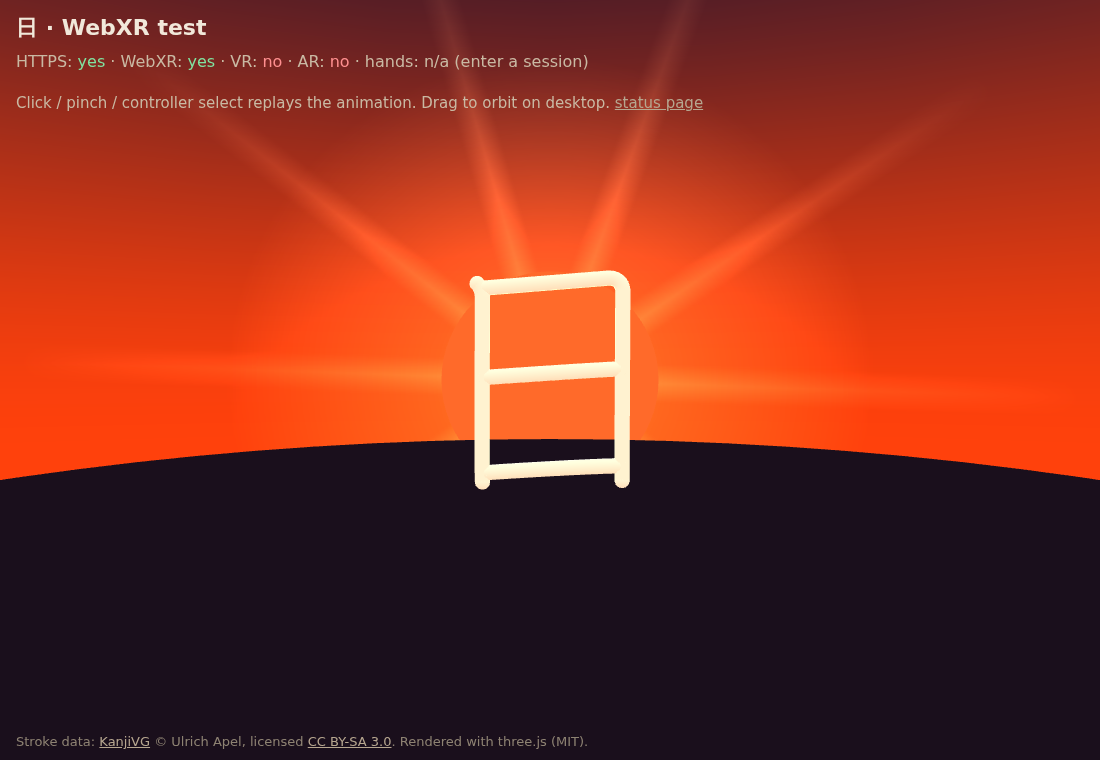
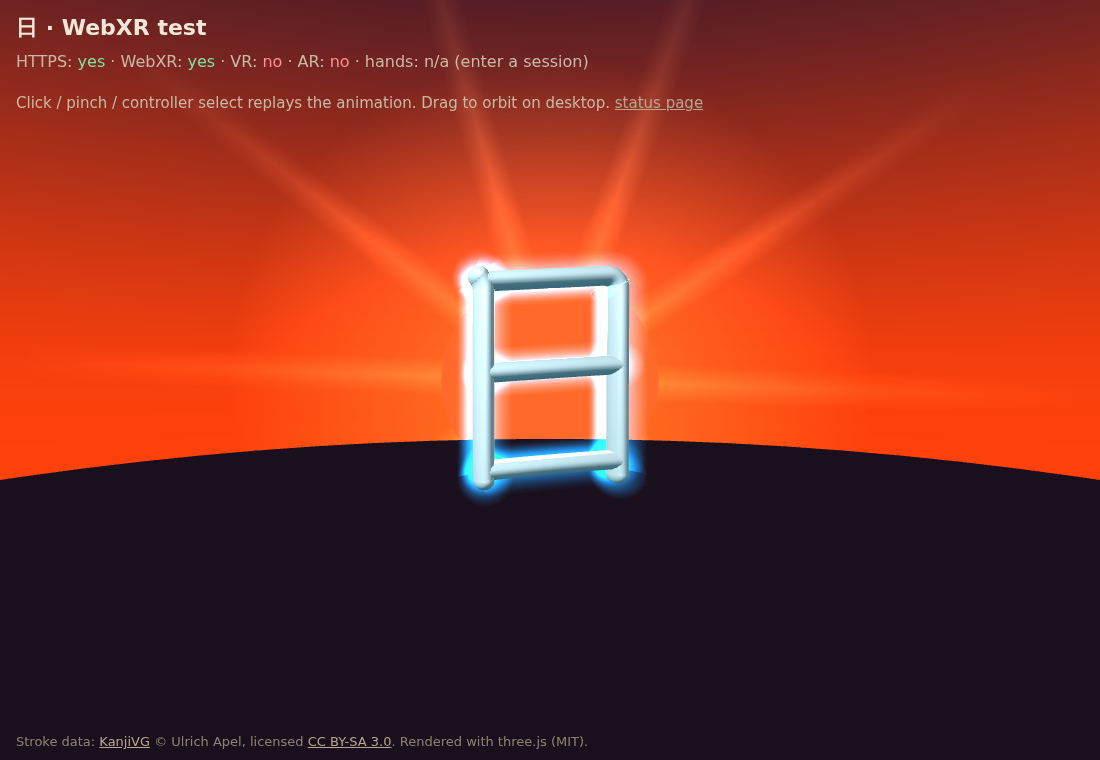
Make the glyph truly 3D with a soft halo, parallax and colour presets
- Deep elliptical-section strokes with correct normals, key and rim lights
- Back-face additive halo that fades at its edge, brightens with the sunrise
- Sun and hill moved well behind the glyph for stereo parallax
- Slow sway after drawing so depth reads when held still
- ?color=cyan|gold|jade|rose palettes; README updated

Claude-Session: https://claude.ai/code/session_01AaNQvAE4ZjNRzfYPZ61ATu

Changed region(s): [[0.4018, 0.3329, 0.5873, 0.6658]]

diff --git a/src/main.js b/src/main.js
@@ -3,7 +3,10 @@ import { OrbitControls } from '../vendor/three/OrbitControls.js';
 
 // ---------- tunables ----------
 const GLYPH_HEIGHT = 0.30;     // metres, glyph bounding-box height
-const STROKE_WIDTH_UNITS = 5;  // KanjiVG units (the source glyph uses 3, this is bolder for VR)
+const STROKE_WIDTH_UNITS = 6.5; // KanjiVG units (the source glyph uses 3, this is bolder for VR)
+const DEPTH_RATIO = 2.0;       // glyph depth radius / width radius: >1 makes the strokes deep slabs, not flat ribbons
+const SWAY = 0.30;             // radians of slow yaw sway once drawn, so the depth reads even without head movement
+const GLOW_SHELL = 2.6;        // halo shell radius relative to the stroke radius
 const DIST = 1.2;              // metres in front of the viewer
 const DESKTOP_POS = new THREE.Vector3(0, 1.4, -DIST);
 
@@ -12,9 +15,19 @@ const STROKE_START = 2.0;
 const STROKE_DUR = 0.75;
 const IDLE_START = STROKE_START + 4 * STROKE_DUR; // 5.0 s
 
-const SUN_R = 0.2, SUN_Z = -0.3, SUN_Y_HIDDEN = -0.42, SUN_Y_UP = 0.0;
-const HILL_Z = -0.18;
+// sun and hill sit well behind the glyph (stereo parallax), scaled so they look the same size as before
+const SUN_R = 0.2, SUN_Z = -0.9, SUN_SCALE = 1.4, SUN_Y_HIDDEN = -0.59, SUN_Y_UP = 0.0;
+const HILL_Z = -0.6, HILL_SCALE = 1.3;
 
+// glyph colour presets, chosen to read against the orange sun / dark hill. Try ?color=gold|cyan|jade|rose
+const PALETTES = {
+  cyan: { body: 0xdaf7ff, emissive: 0x58d8ff, glow: 0x3fd0ff },
+  gold: { body: 0xffe9b8, emissive: 0xffc060, glow: 0xffb347 },
+  jade: { body: 0xdcffe8, emissive: 0x5cf0a0, glow: 0x38e890 },
+  rose: { body: 0xffe0ee, emissive: 0xff86bc, glow: 0xff6aae },
+};
+
+const params = new URLSearchParams(location.search);
 const clamp01 = (x) => Math.min(1, Math.max(0, x));
 const smooth = (x) => { x = clamp01(x); return x * x * (3 - 2 * x); };
 const lerp = (a, b, t) => a + (b - a) * t;
@@ -70,7 +83,7 @@ for (let i = 0; i <= 60; i++) { const x = -3 + (6 * i) / 60; hillShape.lineTo(x,
 hillShape.lineTo(3, -2.5);
 const hillMat = new THREE.MeshBasicMaterial({ color: 0x05060f });
 const hill = new THREE.Mesh(new THREE.ShapeGeometry(hillShape), hillMat);
-hill.position.z = HILL_Z;
+hill.position.z = HILL_Z; hill.scale.setScalar(HILL_SCALE);
 group.add(hill);
 
 // sun: disc + additive glow + rays
@@ -92,7 +105,7 @@ function rayTexture() {
   return new THREE.CanvasTexture(c);
 }
 const sun = new THREE.Group();
-sun.position.set(0, SUN_Y_HIDDEN, SUN_Z);
+sun.position.set(0, SUN_Y_HIDDEN, SUN_Z); sun.scale.setScalar(SUN_SCALE);
 group.add(sun);
 const discMat = new THREE.MeshBasicMaterial({ color: 0xff6a2a, transparent: true });
 const disc = new THREE.Mesh(new THREE.CircleGeometry(SUN_R, 64), discMat);
@@ -106,11 +119,15 @@ const rayMat = new THREE.MeshBasicMaterial({ map: rayTexture(), color: 0xffb070,
 const rayGeo = new THREE.PlaneGeometry(0.07, 0.8).translate(0, SUN_R + 0.4 - 0.02, 0);
 for (let i = 0; i < 10; i++) { const m = new THREE.Mesh(rayGeo, rayMat); m.rotation.z = (i / 10) * Math.PI * 2; rays.add(m); }
 
-// light: one point light at the sun (rim light) + a constant soft fill so the glyph stays readable
-const sunLight = new THREE.PointLight(0xffa060, 0, 4, 1.5);
-sunLight.position.set(0, 0, SUN_Z);
+// lights: warm rim light behind the glyph (grows with the sunrise), a key light from front-left-above so the
+// side walls of the strokes are shaded, plus a soft fill. Lights live in `group` so they follow its placement.
+const sunLight = new THREE.PointLight(0xffa060, 0, 6, 1.5);
+sunLight.position.set(0, 0.15, -0.5);
 group.add(sunLight);
-scene.add(new THREE.HemisphereLight(0xfff4e6, 0xd9b090, 2.4));
+const keyLight = new THREE.PointLight(0xffffff, 0, 8, 2);
+keyLight.position.set(-0.7, 0.6, 0.9);
+group.add(keyLight);
+scene.add(new THREE.HemisphereLight(0xfff0dd, 0x6a4a3a, 0.9));
 
 // ---------- kanji strokes ----------
 const kanji = await (await fetch('./data/kanji-65e5.json')).json();
@@ -120,11 +137,21 @@ const cx = (bb.minX + bb.maxX) / 2, cy = (bb.minY + bb.maxY) / 2;
 const RADIUS = (STROKE_WIDTH_UNITS * S) / 2;
 const RADIAL = 14;
 
-const strokeMat = new THREE.MeshStandardMaterial({ color: 0xfff6e6, roughness: 0.45, metalness: 0, emissive: 0xffe6c8, emissiveIntensity: 0 });
+const pal = PALETTES[params.get('color')] || PALETTES.cyan;
+const strokeMat = new THREE.MeshStandardMaterial({ color: pal.body, roughness: 0.38, metalness: 0.1, emissive: pal.emissive, emissiveIntensity: 0 });
+const RZ = RADIUS * DEPTH_RATIO;                       // depth radius
 const capGeo = new THREE.SphereGeometry(RADIUS, 20, 14);
 
+// soft halo: a fatter additive shell, drawn back-faces only, that fades to nothing at its own edge; the glyph body hides its middle
+const glowUniforms = { color: { value: new THREE.Color(pal.glow) }, strength: { value: 0 } };
+const shellMat = new THREE.ShaderMaterial({
+  uniforms: glowUniforms, transparent: true, depthWrite: false, blending: THREE.AdditiveBlending, side: THREE.BackSide,
+  vertexShader: 'varying vec3 vN; varying vec3 vV; void main(){ vec4 mv = modelViewMatrix * vec4(position,1.0); vN = normalize(normalMatrix * normal); vV = normalize(-mv.xyz); gl_Position = projectionMatrix * mv; }',
+  fragmentShader: 'varying vec3 vN; varying vec3 vV; uniform vec3 color; uniform float strength; void main(){ float f = pow(abs(dot(normalize(vN), normalize(vV))), 2.2); gl_FragColor = vec4(color * f * strength, 1.0); }',
+});
+
 // Extrude a circular cross-section along a planar centre-line (the strokes are flat in x/y).
-function buildTube(pts) {
+function buildTube(pts, rw, rd) {
   const n = pts.length;
   const pos = new Float32Array(n * RADIAL * 3), nor = new Float32Array(n * RADIAL * 3);
   const t = new THREE.Vector3(), nrm = new THREE.Vector3(), dir = new THREE.Vector3();
@@ -134,9 +161,11 @@ function buildTube(pts) {
     nrm.set(-t.y, t.x, 0);
     for (let j = 0; j < RADIAL; j++) {
       const ang = (j / RADIAL) * Math.PI * 2;
-      dir.copy(nrm).multiplyScalar(Math.cos(ang)); dir.z += Math.sin(ang);
+      const c = Math.cos(ang), sn = Math.sin(ang);
       const k = (i * RADIAL + j) * 3;
-      pos[k] = pts[i].x + dir.x * RADIUS; pos[k + 1] = pts[i].y + dir.y * RADIUS; pos[k + 2] = pts[i].z + dir.z * RADIUS;
+      pos[k] = pts[i].x + nrm.x * c * rw; pos[k + 1] = pts[i].y + nrm.y * c * rw; pos[k + 2] = pts[i].z + sn * rd;
+      // normal of an ellipse with radii (rw, rd) is proportional to (c / rw, sn / rd) in the (in-plane normal, z) basis
+      dir.copy(nrm).multiplyScalar(c / rw); dir.z += sn / rd; dir.normalize();
       nor[k] = dir.x; nor[k + 1] = dir.y; nor[k + 2] = dir.z;
     }
   }
@@ -152,25 +181,33 @@ function buildTube(pts) {
   return g;
 }
 
+const pivot = new THREE.Group();   // swayed as a whole; the sun and hill stay put behind it
+group.add(pivot);
 const strokes = kanji.strokes.map((s) => {
   const pts = s.points.map(([x, y]) => new THREE.Vector3((x - cx) * S, -(y - cy) * S, 0));
   const holder = new THREE.Group();
-  const tube = new THREE.Mesh(buildTube(pts), strokeMat);
-  const startCap = new THREE.Mesh(capGeo, strokeMat);
-  const tip = new THREE.Mesh(capGeo, strokeMat);
-  startCap.position.copy(pts[0]); tip.position.copy(pts[0]);
-  holder.add(tube, startCap, tip);
-  group.add(holder);
-  return { pts, tube, startCap, tip, segs: pts.length - 1 };
+  const tube = new THREE.Mesh(buildTube(pts, RADIUS, RZ), strokeMat);
+  const shell = new THREE.Mesh(buildTube(pts, RADIUS * GLOW_SHELL, RZ * GLOW_SHELL), shellMat);
+  const startCap = new THREE.Mesh(capGeo, strokeMat), tip = new THREE.Mesh(capGeo, strokeMat);
+  const startGlow = new THREE.Mesh(capGeo, shellMat), tipGlow = new THREE.Mesh(capGeo, shellMat);
+  for (const m of [startCap, tip]) m.scale.set(1, 1, DEPTH_RATIO);
+  for (const m of [startGlow, tipGlow]) m.scale.set(GLOW_SHELL, GLOW_SHELL, GLOW_SHELL * DEPTH_RATIO);
+  for (const m of [startCap, tip, startGlow, tipGlow]) m.position.copy(pts[0]);
+  shell.renderOrder = startGlow.renderOrder = tipGlow.renderOrder = 5;
+  holder.add(tube, startCap, tip, shell, startGlow, tipGlow);
+  pivot.add(holder);
+  return { pts, tube, shell, startCap, tip, startGlow, tipGlow, segs: pts.length - 1 };
 });
 
 function setStrokeProgress(s, p) {
-  s.startCap.visible = s.tip.visible = p > 0;
+  s.startCap.visible = s.tip.visible = s.startGlow.visible = s.tipGlow.visible = p > 0;
   const f = p * s.segs, k = Math.min(s.segs, Math.floor(f));
   s.tube.geometry.setDrawRange(0, k * RADIAL * 6);
-  s.tube.visible = k > 0;
+  s.shell.geometry.setDrawRange(0, k * RADIAL * 6);
+  s.tube.visible = s.shell.visible = k > 0;
   const i0 = Math.min(s.segs, k), i1 = Math.min(s.segs, k + 1);
   s.tip.position.lerpVectors(s.pts[i0], s.pts[i1], f - k);
+  s.tipGlow.position.copy(s.tip.position);
 }
 
 // ---------- timeline ----------
@@ -188,8 +225,9 @@ function applyTime(t) {
   const fade = passthrough ? dawn : 1;           // no hill in passthrough, so fade the sun in instead
   discMat.opacity = fade;
   glowMat.opacity = fade * (0.35 + 0.2 * dawn);
-  sunLight.intensity = 1.4 * dawn;
-  strokeMat.emissiveIntensity = 0.55 * dawn;
+  sunLight.intensity = 3.0 * dawn;
+  keyLight.intensity = 5.0 * smooth((t - 0.6) / 1.4);
+  strokeMat.emissiveIntensity = 0.18 * dawn;
   strokes.forEach((s, i) => setStrokeProgress(s, smooth((t - (STROKE_START + i * STROKE_DUR)) / STROKE_DUR)));
   const idle = Math.max(0, t - IDLE_START);
   const pulse = 1 + 0.05 * Math.sin(idle * 1.6) * smooth(idle);
@@ -197,15 +235,19 @@ function applyTime(t) {
   disc.scale.setScalar(1 + 0.012 * Math.sin(idle * 1.6) * smooth(idle));
   rayMat.opacity = 0.22 * smooth((t - 1.0) / 2.0) * fade;
   rays.rotation.z = t * 0.04;
+  glowUniforms.strength.value = (1.5 * dawn) * (1 + 0.18 * Math.sin(idle * 1.6) * smooth(idle));
+  // slow sway once drawn: head-on, depth is easy to miss; this shows the side walls of the strokes
+  pivot.rotation.y = SWAY * Math.sin(idle * 0.7) * smooth(idle / 1.5);
+  pivot.position.y = 0.008 * Math.sin(idle * 1.1) * smooth(idle / 1.5);
 }
 
 // ---------- timing / replay ----------
-const params = new URLSearchParams(location.search);
 let frozen = params.has('t') ? parseFloat(params.get('t')) : null; // ?t=2.5 freezes the timeline (used for screenshots)
 let t0 = performance.now();
 function replay() { t0 = performance.now(); if (frozen !== null) frozen = null; }
 window.__setTime = (t) => { frozen = t; };
 window.__ready = true;
+window.__dbg = { camera, controls, pivot };
 
 // desktop: click (without dragging) or R / Space replays
 let down = null;

diff --git a/README.md b/README.md
@@ -8,6 +8,9 @@ Target: Samsung Galaxy XR (Android XR, Chrome). Also runs in a desktop browser.
 
 ## What it does
 - About 5 s sequence, then an idle loop: dawn (sky shifts dark blue-purple to orange, a sun rises behind a hill) → the four strokes of 日 draw in order → the sun pulses gently behind the glyph.
+- The glyph is a real 3D object: each stroke is a deep, rounded slab (about 2x as deep as it is wide), shaded by a key light, a warm rim light from the sun, and a soft fill. A soft halo glows around the strokes and brightens with the sunrise.
+- The sun and hill sit about 0.9 m behind the glyph, so moving your head gives real parallax. After the strokes finish, the glyph sways slowly (about 17 degrees each way) so the depth shows even when you hold still.
+- Colour: the default is an icy cyan-white glyph with a cyan halo, chosen to contrast with the orange sky. Try `?color=gold`, `?color=jade` or `?color=rose` on the URL; the palettes are in `src/main.js`.
 - Glyph is about 30 cm tall, placed about 1.2 m in front of where you are looking when the session starts, at eye height, facing you.
 - Replay: pinch (hands), controller select, mouse click, or R / Space on desktop.
 - "Enter VR" / "Enter AR" buttons appear only if the browser reports the mode as supported. In AR (passthrough) the sky and hill are hidden and only the sun and kanji show. Errors starting a session are shown on the 2D page.
@@ -37,6 +40,8 @@ Look at these first:
 4. Does a pinch replay the animation? Does Enter AR work, and does the sun/kanji look right over passthrough?
 5. Timing (dawn about 2 s, strokes about 3 s): too fast or slow? Anything that flickers or stutters?
 6. The glow and rays: pleasant, or too bright / distracting?
+7. Depth: does the glyph read as a solid 3D object, from head-on and when you move your head? Is the sway comfortable, or distracting?
+8. Colour: cyan vs `?color=gold` etc. Which reads best against the sky?
 
 ## Credits
 - Stroke data: [KanjiVG](https://kanjivg.org) © Ulrich Apel and contributors, licensed [CC BY-SA 3.0](https://creativecommons.org/licenses/by-sa/3.0/). The derived `data/kanji-65e5.json` is under the same licence.
